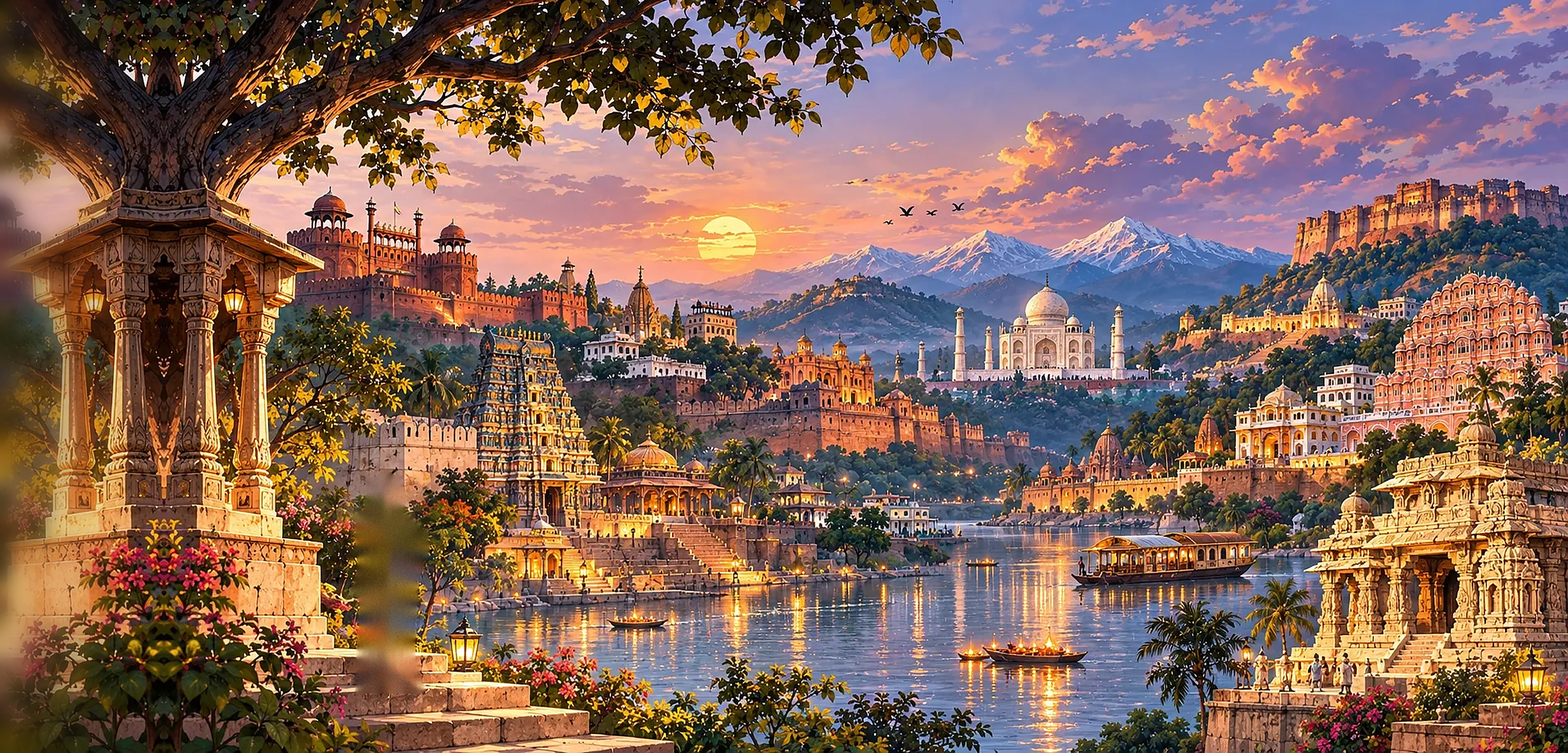
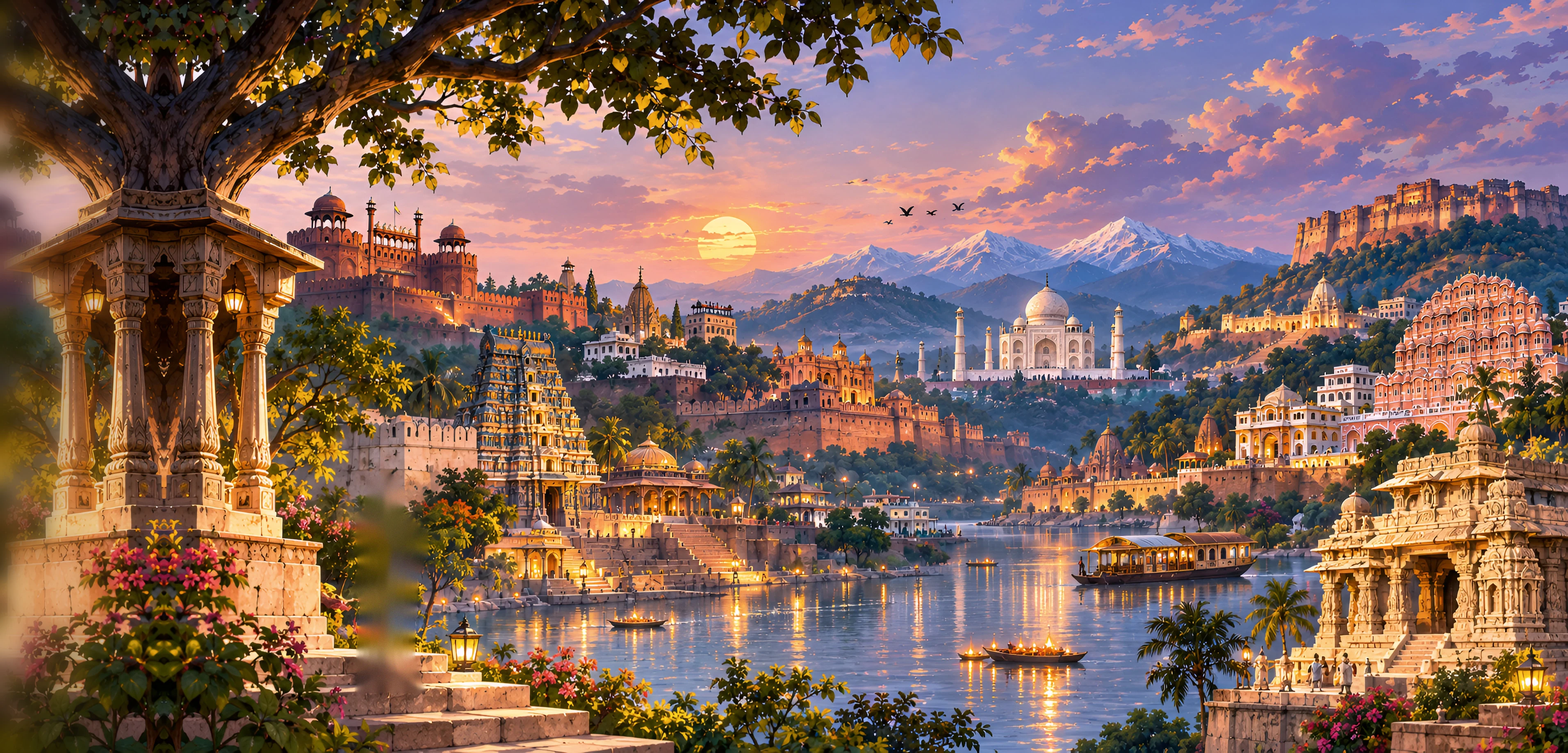
Hero artwork rebuilt from the native 3424 px illustration, reusable build script, deeper zoom

diff --git a/world.js b/world.js
@@ -34,7 +34,7 @@
   // Images
   const load = (src) => new Promise((res) => { const i = new Image(); i.decoding = 'async'; i.onload = () => res(i); i.onerror = () => res(null); i.src = src; });
   let art = null, clean = null, real = null, realNight = null;
-  Promise.all([load('assets/india-world-ext-2x.webp?v=1'), load('assets/india-world-clean-ext-2x.webp?v=1'), load('assets/sarath-full.webp?v=3')]).then(([a, c, r]) => {
+  Promise.all([load('assets/india-world-ext-2x.webp?v=5'), load('assets/india-world-clean-ext-2x.webp?v=5'), load('assets/sarath-full.webp?v=3')]).then(([a, c, r]) => {
     art = a; clean = c; real = r;
     if (r) { realNight = document.createElement('canvas'); realNight.width = r.naturalWidth; realNight.height = r.naturalHeight; const g = realNight.getContext('2d'); g.drawImage(r, 0, 0); g.globalCompositeOperation = 'source-atop'; g.fillStyle = 'rgba(24,22,70,0.42)'; g.fillRect(0, 0, realNight.width, realNight.height); }
     queue();
@@ -121,7 +121,7 @@
     const px = Wi / IW;
     const fz = (st) => {
       if (st.fit) return Math.max(1, (st.fit * vh) / (REAL.h * (Hi / IH)));   // zoom so the whole figure fits the screen
-      return st.z > 1 ? Math.max(1, Math.min(st.z * zs, Math.max(1.25, (st.cap || 1.9) / px))) : 1;
+      return st.z > 1 ? Math.max(1, Math.min(st.z * zs, Math.max(1.25, (st.cap || 3.4) / px))) : 1;
     };
     const za = fz(a), zb = fz(b);
     return { fx: lerp(a.fx, b.fx, e), fy: lerp(a.fy, b.fy, e), z: Math.exp(lerp(Math.log(za), Math.log(zb), e)) * dip, tx: lerp(ta[0], tb[0], e), ty: lerp(ta[1], tb[1], e) };

diff --git a/index.html b/index.html
@@ -246,7 +246,7 @@
 <script src="build3d.js?v=8"></script>
 <script src="main.js?v=10"></script>
 <script src="paper.js?v=1"></script>
-<script src="world.js?v=9"></script>
+<script src="world.js?v=11"></script>
 <script src="scene.js?v=8"></script>
 </body>
 </html>

diff --git a/tools/build_hero_art.py b/tools/build_hero_art.py
@@ -1,0 +1,64 @@
+"""Build the hero artwork from a high resolution source.
+
+Usage:  python tools/build_hero_art.py assets/My-Guest-Project-image.jpg
+
+The source must be the same composition as the original 1712 x 919 illustration, at any larger size
+(3424 x 1838, 6848 x 3676 and so on). It produces, in assets/:
+  india-world-ext-2x.webp        artwork with a soft mirrored margin on the left, so he can sit dead centre
+  india-world-clean-ext-2x.webp  the same artwork with the illustrated figure painted out (the real photo swaps in over it)
+  india-world-ext.webp           small copy used by the minimap
+Everything is scaled from the source width, so a 4K source just works.
+"""
+import sys, os
+import numpy as np
+from PIL import Image, ImageDraw, ImageFilter
+from scipy import ndimage as ndi
+
+BASE_W, BASE_H, PAD0 = 1712, 919, 200                     # coordinates the page uses
+here = os.path.dirname(os.path.abspath(__file__)); assets = os.path.join(os.path.dirname(here), 'assets')
+src = sys.argv[1] if len(sys.argv) > 1 else os.path.join(assets, 'My-Guest-Project-image.jpg')
+art = Image.open(src).convert('RGB')
+S = art.width / BASE_W
+assert abs(art.height / BASE_H - S) < 0.01, 'source must keep the 1712 x 919 aspect ratio'
+PAD = round(PAD0 * S)
+print('source', art.size, 'scale', round(S, 3), 'pad', PAD)
+
+def extend(img):
+    W, H = img.size
+    strip = img.crop((0, 0, PAD, H)).transpose(Image.FLIP_LEFT_RIGHT)       # mirrored, so the seam is continuous
+    blurred = strip.filter(ImageFilter.GaussianBlur(11 * S))
+    a = np.asarray(strip).astype(np.float64); b = np.asarray(blurred).astype(np.float64)
+    w = np.clip(np.linspace(1, 0, PAD)[None, :, None], 0, 1) ** 1.3
+    out = (a * (1 - w) + b * w) * (1 - 0.16 * w)
+    ext = Image.new('RGB', (W + PAD, H))
+    ext.paste(Image.fromarray(np.clip(out, 0, 255).astype(np.uint8)), (0, 0)); ext.paste(img, (PAD, 0))
+    return ext
+
+# Painted out copy: remove the illustrated figure (silhouette read off a measuring grid, in 1712 x 919 coordinates)
+real = Image.open(os.path.join(assets, 'sarath-full.webp')).convert('RGBA')
+H = round(262 * S); W = round(H * real.width / real.height)
+LEFT = round(270 * S - 0.4726 * W); TOP = round(838 * S) - H
+poly = [(250,586),(284,586),(291,604),(287,627),(305,639),(318,650),(319,672),(312,691),(306,706),(305,731),(303,760),(302,800),(311,831),(314,842),(236,842),(239,831),(246,800),(247,770),(243,745),(238,720),(240,690),(237,660),(238,641),(247,630),(249,610)]
+cart = Image.new('L', art.size, 0); ImageDraw.Draw(cart).polygon([(x * S, y * S) for x, y in poly], fill=255)
+sil = Image.new('L', art.size, 0)
+sil.paste(real.resize((W, H), Image.LANCZOS).getchannel('A').point(lambda v: 255 if v > 30 else 0), (LEFT, TOP))
+mask = ndi.binary_dilation(np.asarray(cart) > 0, iterations=round(4 * S)) | ndi.binary_dilation(np.asarray(sil) > 0, iterations=round(2 * S))
+img = np.asarray(art).astype(np.float64); known = (~mask).astype(np.float64); filled = img.copy(); ck = known.copy()
+for sigma in (2, 3, 4, 6, 8, 12, 16, 24, 32, 48):
+    sg = sigma * S
+    num = np.stack([ndi.gaussian_filter(filled[..., c] * ck, sg) for c in range(3)], axis=-1)
+    den = ndi.gaussian_filter(ck, sg)[..., None]
+    take = (ck < 0.5) & (den[..., 0] > 0.04)
+    filled[take] = (num / np.maximum(den, 1e-6))[take]; ck = np.maximum(ck, take.astype(np.float64))
+sm = np.stack([ndi.gaussian_filter(filled[..., c], 1.2 * S) for c in range(3)], axis=-1)
+noise = np.random.default_rng(3).normal(0, 4.0, filled.shape)
+out = np.where(mask[..., None], sm + noise, img)
+alpha = ndi.gaussian_filter(mask.astype(np.float64), 1.5 * S)[..., None]
+clean = Image.fromarray(np.clip(img * (1 - alpha) + out * alpha, 0, 255).astype(np.uint8))
+
+ext, cext = extend(art), extend(clean)
+q = dict(quality=90, method=6)
+ext.save(os.path.join(assets, 'india-world-ext-2x.webp'), 'WEBP', **q)
+cext.save(os.path.join(assets, 'india-world-clean-ext-2x.webp'), 'WEBP', **q)
+ext.resize((ext.width // 2, ext.height // 2), Image.LANCZOS).save(os.path.join(assets, 'india-world-ext.webp'), 'WEBP', quality=88)
+print('saved', ext.size, 'figure placement (source px)', LEFT + PAD, TOP, W, H)
